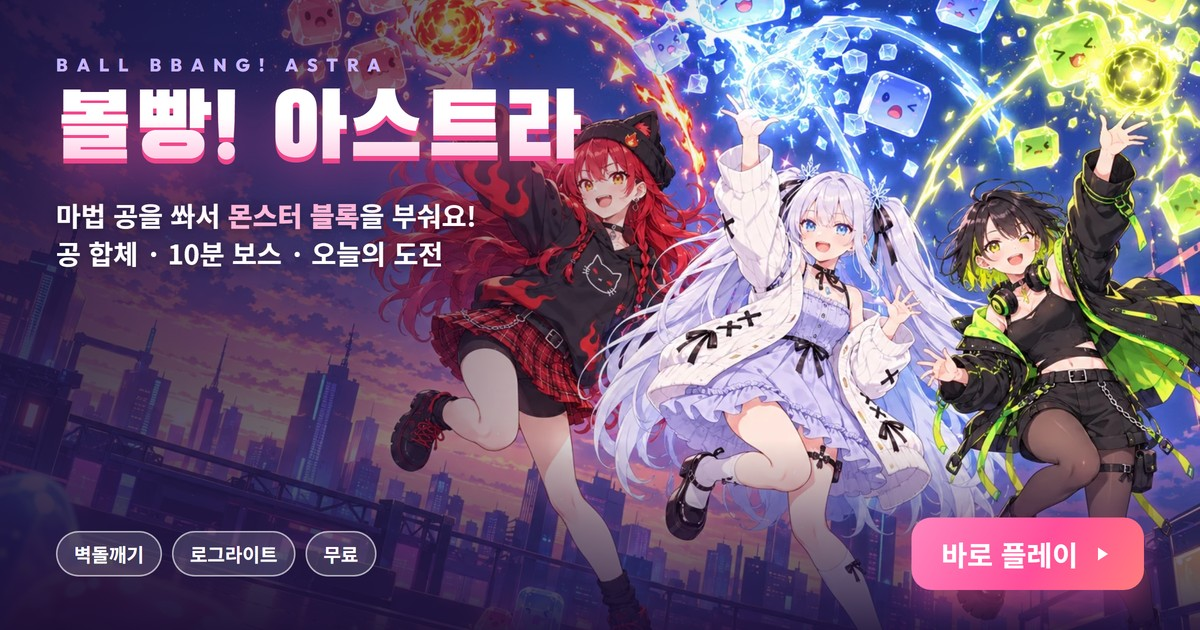
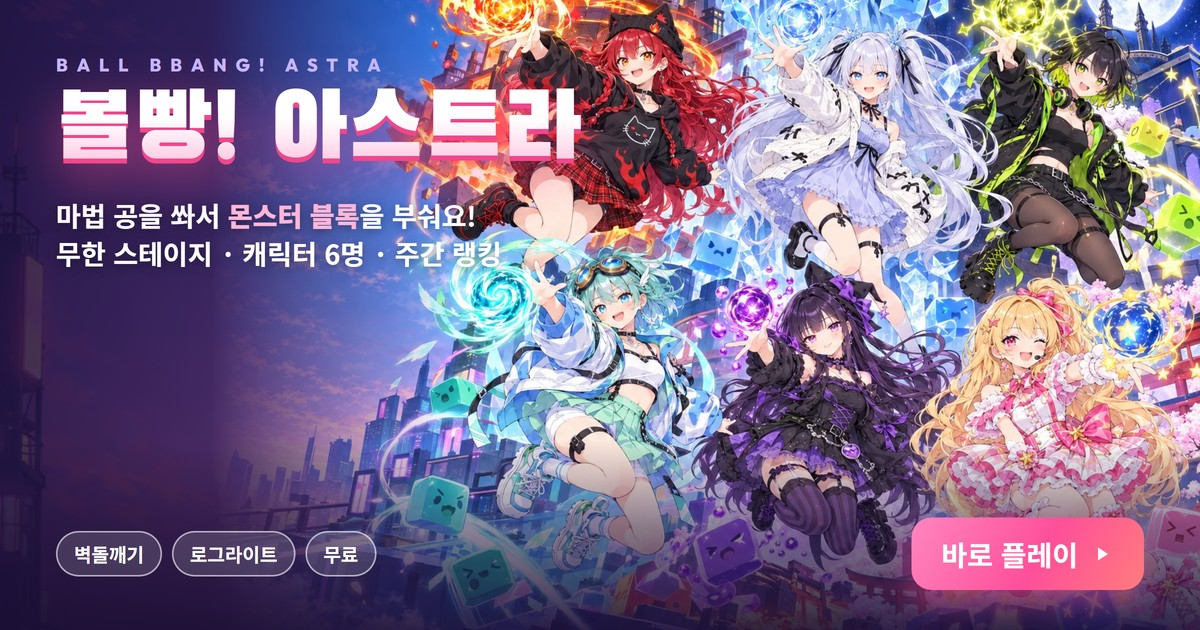
볼빵: 캐릭터 숙련도(Lv.1~10)·유카타 의상 6명·주간 랭킹·익명 판 기록 + 6명 대표 그림(첫 화면·공유 그림·홈페이지 카드)

diff --git a/ballbbang/index.html b/ballbbang/index.html
@@ -187,7 +187,17 @@ body.wide .side{display:grid;gap:12px}
 .news-list li{display:flex;gap:10px;align-items:center;padding:9px 11px;border-radius:12px;background:#F7F2FA;font:500 12.5px/1.4 var(--f-kr);color:var(--ink2)}
 .news-list li i{font-style:normal;font-size:20px;line-height:1;flex:none}
 .news-list li b{display:block;font:800 13.5px/1.3 var(--f-kr);color:var(--ink)}
+.news-list li.nw{background:linear-gradient(120deg,#FFF6D6,#FFE6F2);box-shadow:inset 0 0 0 1.5px #FFC24A}
+.news-list li.nw b::after{content:"NEW";margin-left:6px;padding:2px 6px;border-radius:999px;background:var(--pink);color:#fff;font:800 9.5px/1 var(--f-en);letter-spacing:.08em;vertical-align:2px}
 .lvup.chest .lvwrap h2{background:linear-gradient(180deg,#FFFBE0,#FFC24A);-webkit-background-clip:text;background-clip:text}
+.charc .mast{display:flex;align-items:center;gap:6px;margin-top:6px;font:800 11px/1 var(--f-kr);color:var(--pink)}
+.charc .mast i{flex:1;height:5px;border-radius:3px;background:#E8DDF0;position:relative;overflow:hidden;min-width:30px}
+.charc .mast i::after{content:"";position:absolute;inset:0 auto 0 0;width:var(--p);background:var(--pink)}
+.charc .mnext{display:block;margin-top:3px;font:500 10.5px/1.3 var(--f-kr);color:var(--ink2)}
+.charc .cos{display:inline-block;margin-top:6px;padding:5px 9px;border-radius:999px;background:linear-gradient(120deg,#FFF6D6,#FFE0F0);box-shadow:inset 0 0 0 1.5px var(--gold);font:800 11px/1 var(--f-kr);color:#4A2E00}
+.wk{display:grid;gap:4px}
+.wk div{display:flex;justify-content:space-between;gap:8px;padding:7px 10px;border-radius:10px;background:#F7F2FA;font:700 12.5px/1.2 var(--f-kr);color:var(--ink)}
+.wk div small{font:500 11px/1.2 var(--f-kr);color:var(--ink2)}
 .charc .pr.cond{font:700 10.5px/1.25 var(--f-kr);max-width:48%;text-align:right;white-space:normal}
 @keyframes sweep{0%,62%{left:-60%}100%{left:130%}}
 /* 첫 화면 */
@@ -337,6 +347,7 @@ body.wide .side{display:grid;gap:12px}
 <div class="overlay" id="ach" hidden>
   <div class="card"><span class="tag">REWARDS</span><h2 class="c-title">업적 · 도감</h2>
     <div class="ach-sec"><b>오늘의 미션</b><small id="dmInfo"></small><div id="dmList" class="mlist"></div></div>
+    <div class="ach-sec"><b>이번 주 랭킹</b><small id="wkInfo">월요일마다 새로 시작 · 1~3등은 다음 주에 '주간 ○등' 칭호</small><div id="wkList" class="wk"></div></div>
     <div class="ach-sec"><b>칭호</b><small>고른 칭호가 랭킹에 이름과 같이 나와요</small><div id="titleList" class="chips"></div></div>
     <div class="ach-sec"><b>업적 <em id="achCount"></em></b><div id="achList" class="mlist"></div></div>
     <div class="ach-sec"><b>보스 도감 <em id="dexCount"></em></b><div id="dexGrid" class="dex"></div></div>
@@ -351,11 +362,11 @@ body.wide .side{display:grid;gap:12px}
 <div class="overlay" id="news" hidden>
   <div class="card"><span class="tag">UPDATE</span><h2 class="c-title">새로워졌어요!</h2>
     <ul class="news-list">
-      <li><i>♾</i><div><b>시간제한 없는 무한 스테이지</b>스테이지 20개 · 쓰러질 때까지 계속</div></li>
-      <li><i>🚩</i><div><b>체크포인트 시작</b>최고 기록 스테이지부터 바로 시작할 수 있어요</div></li>
-      <li><i>🏆</i><div><b>업적 · 칭호 · 보스 도감 · 오늘의 미션</b>할수록 코인과 칭호가 쌓여요</div></li>
-      <li><i>🎁</i><div><b>5스테이지마다 보물 상자</b>전설 강화 하나를 골라요</div></li>
-      <li><i>💤</i><div><b>쉬는 동안 코인</b>안 하는 동안에도 친구들이 코인을 모아 와요</div></li>
+      <li class="nw"><i>🎐</i><div><b>캐릭터 숙련도 · 유카타 의상</b>한 캐릭터로 할수록 강해지고, Lv.10이면 축제 유카타를 입어요</div></li>
+      <li class="nw"><i>📅</i><div><b>주간 랭킹</b>월요일마다 새로 시작 · 1~3등은 '주간 ○등' 칭호</div></li>
+      <li class="nw"><i>🎵</i><div><b>테마마다 다른 전투 곡</b>얼음·용암·네온·벚꽃·우주 스테이지에 새 곡</div></li>
+      <li><i>♾</i><div><b>무한 스테이지 · 체크포인트 시작</b>최고 기록 스테이지부터 바로 시작할 수 있어요</div></li>
+      <li><i>🏆</i><div><b>업적 · 칭호 · 보물 상자 · 쉬는 동안 코인</b>할수록 코인과 칭호가 쌓여요</div></li>
       <li><i>👭</i><div><b>새 친구 소라 · 네네 · 미라이</b>캐릭터 화면에서 만나요</div></li>
       <li><i>💾</i><div><b>기록 옮기기 코드</b>업적 화면 맨 아래에서 백업할 수 있어요</div></li>
     </ul>
@@ -413,7 +424,7 @@ const $ = s => document.querySelector(s);
 const SHARE_URL = 'https://baed73117.github.io/ai-astra/ballbbang/';
 const TOUCH = !!(window.matchMedia && matchMedia('(pointer: coarse)').matches);
 const REDUCED = !!(window.matchMedia && matchMedia('(prefers-reduced-motion: reduce)').matches);
-const AV = '?v=1f80979b';   // 배포 때 build.py 가 '?v=그림버전' 으로 바꿈
+const AV = '?v=bacf8d9b';   // 배포 때 build.py 가 '?v=그림버전' 으로 바꿈
 const fmt = n => Math.floor(Number(n) || 0).toLocaleString('ko-KR');
 const short = n => n >= 1e6 ? (n / 1e6).toFixed(n >= 1e7 ? 0 : 1) + 'M' : n >= 1e4 ? Math.round(n / 1e3) + 'K' : n >= 1e3 ? (n / 1e3).toFixed(1) + 'K' : String(Math.ceil(n));
 const clamp = (v, a, b) => v < a ? a : v > b ? b : v;
@@ -431,7 +442,8 @@ const WIN_LINE = {ruby: '봤지? 내 불꽃이 최고야~!', yuki: '…당연한
 const GOOD_LINE = {ruby: '아깝다! 다음엔 보스까지 태워 버리자!', yuki: '꽤 잘했어. 다음엔 끝까지 가자.', riko: '거의 다 왔는데! 한 판 더?', sora: '조금만 더 날면 됐는데! 다시 가자!', nene: '음… 다음엔 더 진하게 끓여 볼게.', mirai: '앵콜 무대 한 번 더 할래?'};
 const LOSE_LINE = {ruby: '으으… 한 번만 더 하자!', yuki: '괜찮아. 다시 하면 돼.', riko: '에이~ 몸풀기였어! 다시 고고!', sora: '에헤헤, 바람이 좀 셌네. 다시!', nene: '졸려… 한 판만 더 할까.', mirai: '연습은 끝! 이제 본무대야!'};
 const byKey = k => CHARS.find(c => c.key === k) || CHARS[0];
-const PT_URL = k => `assets/pt_${k}.webp${AV}`, SD_URL = k => `assets/sd_${k}.webp${AV}`, BLINK_URL = k => `assets/sd_${k}_blink.webp${AV}`;
+const skin = k => save && save.cos && save.cos[k] && mastLv(k) >= 10 ? '_' + save.cos[k] : '';   // 숙련도 Lv.10 의상 (지금은 c1 = 축제 유카타)
+const PT_URL = k => `assets/pt_${k}${skin(k)}.webp${AV}`, SD_URL = k => `assets/sd_${k}${skin(k)}.webp${AV}`, BLINK_URL = k => `assets/sd_${k}${skin(k)}_blink.webp${AV}`;
 // 공 15종 (balls.webp 5×3 칸 번호 = i). dmg = 기본 피해, owner = 콜라보 합체 연출에 나오는 캐릭터
 const BALLS = {
   basic: {i: 0, name: '기본 공', dmg: 10, color: 0xFFE3F1, desc: '단단하고 믿음직한 기본 공'},
@@ -599,7 +611,13 @@ const MISSIONS = [
   {id: 'chest', text: () => '보물 상자 1개 열기', n: [1], coin: 150}, {id: 'plays', text: n => `${n}판 하기`, n: [2, 3], coin: 100},
   {id: 'level', text: n => `한 판에 레벨 ${n} 달성`, n: [25, 35], coin: 120}, {id: 'daily', text: () => '오늘의 도전 1판', n: [1], coin: 100},
 ];
-const SCORE_CAP = 99990000;                  // 랭킹 시트 상한(1억) 안쪽 · 무한 스테이지라 사실상 제한 없음
+const SCORE_CAP = 99990000;
+// 캐릭터 숙련도: 판이 끝나면 그 캐릭터에 경험치(간 스테이지·부순 블록·잡은 보스) → Lv.1~10, 단계마다 작은 보너스, Lv.10 = 유카타 의상 + '○○ 마스터' 칭호 (오늘의 도전엔 보너스 없음)
+const MAST_XP = [0, 60, 150, 280, 450, 670, 950, 1300, 1720, 2220];
+const MAST_TXT = ['', '', '공격력 +3%', '시작 기본 공 +1', '최대 체력 +10', '공격력 +3%', '특기 쿨타임 -6%', '시작 기본 공 +1', '특기 위력 +10%', '공격력 +4% · 체력 +10', '유카타 의상 · 마스터 칭호'];
+const mastXp = k => (save.mast && save.mast[k]) || 0;
+const mastLv = k => { const x = mastXp(k); let l = 1; while (l < 10 && x >= MAST_XP[l]) l++; return l; };
+function mastBonus(k) { const l = mastLv(k); return {atk: (l >= 2 ? .03 : 0) + (l >= 5 ? .03 : 0) + (l >= 9 ? .04 : 0), balls: (l >= 3 ? 1 : 0) + (l >= 7 ? 1 : 0), hp: (l >= 4 ? 10 : 0) + (l >= 9 ? 10 : 0), cd: l >= 6 ? .94 : 1, pow: l >= 8 ? 1.1 : 1}; }                  // 랭킹 시트 상한(1억) 안쪽 · 무한 스테이지라 사실상 제한 없음
 
 /* ---------- 저장 (새 키: astra-universe-breaker-v1) ---------- */
 const SAVE_KEY = 'astra-universe-breaker-v1', RUN_KEY = 'astra-universe-breaker-run';
@@ -618,7 +636,10 @@ function loadSave() {
   const ach = Array.isArray(s.ach) ? s.ach.filter(id => ACH.some(a => a.id === id)) : [];
   const d0 = s.dm && typeof s.dm === 'object' ? s.dm : {}, dm = {d: String(d0.d || ''), p: {}, done: Array.isArray(d0.done) ? d0.done.map(String) : [], streak: n(d0.streak), last: String(d0.last || ''), best: n(d0.best)};
   MISSIONS.forEach(m => { dm.p[m.id] = n(d0.p && d0.p[m.id]); });
-  return {best: n(s.best), clears: n(s.clears), coins: Math.min(9999999, n(s.coins)), plays: n(s.plays), owned, sel: owned.includes(s.sel) ? s.sel : 'ruby', shop, top, st: n(s.st), idleT: n(s.idleT), news: String(s.news || ''), rec, dex: n(s.dex) & 0xFFFFFFF, ach, title: ach.includes(s.title) ? s.title : '', dm,
+  const mast = {}, cos = {};
+  if (s.mast && typeof s.mast === 'object') for (const k of Object.keys(s.mast)) if (CHARS.some(c => c.key === k)) mast[k] = n(s.mast[k]);
+  if (s.cos && typeof s.cos === 'object') for (const k of Object.keys(s.cos)) if (CHARS.some(c => c.key === k) && s.cos[k] === 'c1') cos[k] = 'c1';
+  return {best: n(s.best), clears: n(s.clears), coins: Math.min(9999999, n(s.coins)), plays: n(s.plays), owned, sel: owned.includes(s.sel) ? s.sel : 'ruby', shop, top, st: n(s.st), idleT: n(s.idleT), news: String(s.news || ''), rec, dex: n(s.dex) & 0xFFFFFFF, ach, title: ach.includes(s.title) || /^(m:[a-z]+|w:[123])$/.test(String(s.title || '')) ? String(s.title) : '', dm, mast, cos, wbest: n(s.wbest), wseen: String(s.wseen || ''),
     muted: s.muted === true, auto: s.auto !== false, daily: s.daily && typeof s.daily === 'object' ? {d: String(s.daily.d || ''), best: n(s.daily.best)} : {d: '', best: 0}};
 }
 const save = loadSave();
@@ -1098,13 +1119,14 @@ function newRun(opts) {
   const daily = !!opts.daily, seed = daily ? opts.seed : (Math.random() * 4294967296) >>> 0;
   const ch = byKey(opts.char);
   const shop = daily ? {atk: 0, hp: 0, start: 0, xp: 0, reroll: 0} : save.shop;
+  const mb = daily ? {atk: 0, balls: 0, hp: 0, cd: 1, pow: 1} : mastBonus(ch.key);   // 숙련도 보너스 (오늘의 도전은 공정하게 없음)
   return {
     started: false, daily, seed, dateNum: opts.dateNum || 0, char: ch.key, stage: 1, startStage: 1, prevTop: save.top, stT: 0, stPh: 0,   // stT = 스테이지 시계 · stPh = 0 시작 · 1 중간 보스 나옴 · 2 스테이지 보스 나옴
     wr: rng(seed), cr: rng(seed ^ 0x9E3779B9),          // 블록용 · 선택지용 (고른 것이 블록 배치를 바꾸지 않게)
     t: 0, scroll: 0, nextK: 0, score: 0, kills: 0, level: 1, xp: 0, xpNeed: xpNeedFor(1),
-    hp: 100 + shop.hp * 10, hpMax: 100 + shop.hp * 10, atkMeta: 1 + shop.atk * .08, xpMeta: 1 + shop.xp * .06,
-    rerolls: 1 + shop.reroll, kinds: {[ch.ball]: 1, basic: 1}, extraBasic: 3 + shop.start, fusions: [],
-    upg: {}, skillT: 0, skillCd: 22, frozenT: 0, shieldT: 0, boss: null, won: false, ended: false,
+    hp: 100 + shop.hp * 10 + mb.hp, hpMax: 100 + shop.hp * 10 + mb.hp, atkMeta: (1 + shop.atk * .08) * (1 + mb.atk), xpMeta: 1 + shop.xp * .06,
+    rerolls: 1 + shop.reroll, kinds: {[ch.ball]: 1, basic: 1}, extraBasic: 3 + shop.start + mb.balls, fusions: [], mPow: mb.pow,
+    upg: {}, skillT: 0, skillCd: 22 * mb.cd, frozenT: 0, shieldT: 0, boss: null, won: false, ended: false,
     hitCount: 0, pendingLv: 0, minK: 0, bossN: 0, maxCombo: 0, chestN: 0, dexRun: 0, leg: {}, pendingChest: 0, revived: false, starT: 0,
   };
 }
@@ -1935,7 +1957,7 @@ function cutIn(small, text, a, b, c1, c2) {
 /* ---------- 특기 ---------- */
 let skillPoseT = 0;
 const skillCdNow = () => run.skillCd * Math.pow(.88, U('skillcd')) * (LG('charge') ? .6 : 1);
-const skillPow = () => (1 + .3 * U('skillpow')) * atkMul() * (1 + run.level * .06);
+const skillPow = () => (1 + .3 * U('skillpow')) * atkMul() * (1 + run.level * .06) * (run.mPow || 1);
 function later(sec, fn) { (run.skillQ || (run.skillQ = [])).push({t: run.t + sec, fn}); }   // 게임 시간으로 잠시 뒤에 (차례대로 넣음)
 function useSkill() {
   if (state !== 'play' || paused || !run || run.skillT < skillCdNow()) return;
@@ -2093,7 +2115,7 @@ function snapshot() {
   if (!run || run.ended || !run.started) return null;
   const bl = [...blocks].filter(b => !b.dead && !b.boss).map(b => [b.k, b.c, b.w, b.h, Math.round(b.hp), Math.round(b.maxHp), b.type]);
   const bo = run.boss && !run.boss.dead ? [run.boss.k, run.boss.c, run.boss.w, run.boss.h, Math.round(run.boss.hp), Math.round(run.boss.maxHp), run.boss.boss.tex, run.boss.boss.final ? 1 : 0, run.boss.boss.name] : null;
-  const keep = ['daily', 'seed', 'dateNum', 'char', 'stage', 't', 'scroll', 'nextK', 'score', 'kills', 'level', 'xp', 'xpNeed', 'hp', 'hpMax', 'atkMeta', 'xpMeta', 'rerolls', 'kinds', 'extraBasic', 'fusions', 'upg', 'skillT', 'skillCd', 'stT', 'stPh', 'hitCount', 'coinBonus', 'dmgTotal', 'bossN', 'maxCombo', 'chestN', 'dexRun', 'leg', 'pendingChest', 'revived', 'startStage', 'prevTop'];
+  const keep = ['daily', 'seed', 'dateNum', 'char', 'stage', 't', 'scroll', 'nextK', 'score', 'kills', 'level', 'xp', 'xpNeed', 'hp', 'hpMax', 'atkMeta', 'xpMeta', 'rerolls', 'kinds', 'extraBasic', 'fusions', 'upg', 'skillT', 'skillCd', 'stT', 'stPh', 'hitCount', 'coinBonus', 'dmgTotal', 'bossN', 'maxCombo', 'chestN', 'dexRun', 'leg', 'pendingChest', 'revived', 'startStage', 'prevTop', 'mPow'];
   const o = {}; keep.forEach(k => { o[k] = run[k]; });
   o.wr = run.wr.get(); o.cr = run.cr.get(); o.bl = bl; o.bo = bo; o.WH = WH; o.at = Date.now();
   o.it = items.map(it => [it.type, it.k, it.c, it.uses]);
@@ -2214,12 +2236,18 @@ function endRun(won) {
   run.rewards = applyRewards(run);
   if (run.daily) { if (save.daily.d !== String(run.dateNum)) save.daily = {d: String(run.dateNum), best: 0}; save.daily.best = Math.max(save.daily.best, finalScore); }
   persist();
+  sendStat(run);
   const r = run;
   setTimeout(() => { if (run === r) showResult(won); }, won ? 1800 : 900);
 }
 // 판이 끝나면: 기록 쌓기 → 오늘의 미션 → 업적 → 조건 캐릭터 합류. 받은 보상 글 목록을 돌려줌 (결과 화면에 표시)
 function applyRewards(r) {
   const out = [], R = save.rec;
+  // 숙련도: 간 스테이지 수 ×10 + 블록 100개당 1 + 보스 1마리당 2
+  const mg = Math.round(10 * Math.max(1, r.stage - (r.startStage || 1) + 1) + (r.kills || 0) / 100 + 2 * (r.bossN || 0)), lv0 = mastLv(r.char);
+  save.mast[r.char] = mastXp(r.char) + mg;
+  const lv1 = mastLv(r.char);
+  out.push(`${byKey(r.char).name} 숙련도 +${mg}` + (lv1 > lv0 ? ` · Lv.${lv1}! ${MAST_TXT[lv1]}` : ''));
   R.kills += r.kills || 0; R.bosses += r.bossN || 0; R.combo = Math.max(R.combo, r.maxCombo || 0); R.chests += r.chestN || 0; if (r.daily) R.dailies++;
   if ((r.startStage || 1) === 1 || r.stage > r.startStage) R.cbest[r.char] = Math.max(R.cbest[r.char] || 0, r.stage);
   save.dex = (save.dex | (r.dexRun || 0)) & 0xFFFFFFF;
@@ -2258,7 +2286,7 @@ function idleReward() {
   setTimeout(() => toast(`쉬는 동안 캐릭터들이 코인 ${fmt(got)}개를 모아 왔어요! (시간당 ${rate}개)`), 600);
 }
 // 기록 옮기기 코드: 'BB1-확인값-내용' (내용 = 저장 JSON을 base64로). 확인값이 안 맞으면 거절
-const NEWS_V = '20261009';
+const NEWS_V = '20261009b';   // 바꾸면 모두에게 안내 창이 한 번 더 뜸
 function codeSum(t) { let h = 2166136261; for (let i = 0; i < t.length; i++) { h ^= t.charCodeAt(i); h = Math.imul(h, 16777619); } return (h >>> 0).toString(36); }
 function exportCode() { const b = btoa(unescape(encodeURIComponent(JSON.stringify(save)))); return 'BB1-' + codeSum('astra-bb' + b) + '-' + b; }
 function importCode(code) {
@@ -2270,7 +2298,39 @@ function importCode(code) {
   Object.assign(save, loadSave()); save.news = NEWS_V; persist(); clearRunSave(); stView = -1;
   return true;
 }
-const titleText = () => { const a = ACH.find(x => x.id === save.title); return a ? a.title : ''; };
+const titleText = () => {
+  const t = save.title || '';
+  if (t.startsWith('m:')) { const k = t.slice(2); return mastLv(k) >= 10 ? byKey(k).name + ' 마스터' : ''; }
+  if (t.startsWith('w:')) return save.wbest && save.wbest <= +t.slice(2) ? `주간 ${t.slice(2)}등` : '';
+  const a = ACH.find(x => x.id === t); return a ? a.title : '';
+};
+// 주간 랭킹: 'bbw' + 이번 주 월요일(한국 시간). 시트는 이번 주·지난주 것만 받음. 지난주 1~3등(같은 닉네임)은 '주간 ○등' 칭호
+function weekKey(off) { const d = new Date(Date.now() + 9 * 3600e3), dow = (d.getUTCDay() + 6) % 7, m = new Date(Date.UTC(d.getUTCFullYear(), d.getUTCMonth(), d.getUTCDate() - dow - 7 * (off || 0))); return 'bbw' + (m.getUTCFullYear() * 1e4 + (m.getUTCMonth() + 1) * 100 + m.getUTCDate()); }
+let wkBusy = false;
+function sendWeekly(score, info, delay) {
+  const g = weekKey(), nm = RankNet.name;
+  if (!RankNet.on || !nm || !rankTop || !Object.prototype.hasOwnProperty.call(rankTop, g) || !(score > RankNet.sent(g))) return;
+  setTimeout(() => {   // 결과 화면·랭킹 올리기 두 곳에서 불려도 한 번만 (보내기 직전에 다시 확인)
+    if (wkBusy || !(score > RankNet.sent(g))) return;
+    wkBusy = true;
+    RankNet.send(g, RankNet.name || nm, score, info).then(j => { if (j && j.ok && j.top) rankTop = j.top; }).catch(() => {}).then(() => { wkBusy = false; });
+  }, delay);
+}
+function weeklyCheck() {
+  const g = weekKey(1), list = rankTop && rankTop[g], nm = RankNet.name;
+  if (!list || !nm || save.wseen === g) return;
+  const i = list.slice(0, 3).findIndex(x => x.name === nm);
+  save.wseen = g;
+  if (i >= 0) { save.wbest = Math.min(save.wbest || 9, i + 1); toast(`지난주 주간 랭킹 ${i + 1}등! '주간 ${i + 1}등' 칭호를 받았어요`); }
+  persist();
+}
+// 익명 판 기록 (이름 없이 스테이지·캐릭터·시간·레벨만) → 시트 '볼빵기록' 탭: 실제 사람 기준으로 난이도를 맞추는 데 씀
+function sendStat(r) {
+  if (!RankNet.on) return;
+  const body = {kind: 'stat', id: RankNet.id(), stage: r.stage, start: r.startStage || 1, char: r.char, sec: Math.floor(played()), lv: r.level,
+    shop: Object.values(save.shop).reduce((a, b) => a + b, 0), m: mastLv(r.char), daily: r.daily ? 1 : 0, score: r.final || 0};
+  setTimeout(() => RankNet.req({method: 'POST', body: JSON.stringify(body)}).catch(() => {}), 2500);
+}
 function restoreVolume() { if (S.music) S.music.gain.value = .32; if (S.bgm) S.bgm.gain.value = BGM_VOL; }
 function showResult(won) {
   state = 'over'; paused = false; overT = 0;
@@ -2290,6 +2350,7 @@ function showResult(won) {
   // 랭킹 (시트가 이 게임을 받을 준비가 됐을 때만)
   const ch = byKey(run.char), info = `${run.daily ? '도전 ' + String(run.dateNum).slice(4) + ' · ' : ''}${titleText() ? titleText() + ' · ' : ''}${ch.name} · ${run.startStage > 1 ? 'S' + run.startStage + '→' : '스테이지 '}${run.stage}`;
   const game = run.daily ? 'bbd' + run.dateNum : 'ballbbang';    // 오늘의 도전은 날짜별 랭킹
+  if (!run.daily) sendWeekly(finalScore, info, 6500);   // 주간 랭킹 (전체 랭킹 올린 뒤 몇 초 있다가 — 시트가 한 기기에서 5초에 한 번만 받음)
   if (rankSupported) RankUI.show(game, finalScore, info); else { $('#rankBox').hidden = true; if (RankNet.on) checkRank().then(ok => { if (ok && state === 'over') RankUI.show(game, finalScore, info); }); }
   $('#result').hidden = false; lockEl($('#result .card'), 500);
   const r = run; setTimeout(() => { if (state === 'over' && run === r) BGM.play('title', 1.2); }, 1600);
@@ -2371,8 +2432,13 @@ function openAch() {
   const P = save.dm.p, ml = $('#dmList'); ml.innerHTML = '';
   $('#dmInfo').textContent = `매일 바뀌어요 · 3개 다 하면 보너스 코인 (최고 연속 ${save.dm.best}일)`;
   todayMissions().forEach(m => ml.appendChild(mrow(m.text, `${fmt(Math.min(P[m.id], m.n))} / ${fmt(m.n)}`, P[m.id] / m.n, `+${m.coin}`, save.dm.done.includes(m.id))));
+  const wl = $('#wkList'), wk = rankTop && rankTop[weekKey()]; wl.innerHTML = '';
+  if (wk && wk.length) wk.slice(0, 3).forEach((x, i) => { const d = document.createElement('div'); d.innerHTML = '<span></span><small></small>'; d.firstChild.textContent = `${['🥇', '🥈', '🥉'][i]} ${x.name}`; d.lastChild.textContent = fmt(x.score); wl.appendChild(d); });
+  else { const d = document.createElement('div'); d.innerHTML = '<small></small>'; d.firstChild.textContent = rankTop ? '이번 주 기록이 아직 없어요 · 첫 1등에 도전!' : '랭킹을 불러오는 중이거나 연결이 안 돼요'; wl.appendChild(d); }
   const tl = $('#titleList'); tl.innerHTML = '';
   tl.appendChild(chip('칭호 없음', !save.title, false, () => { save.title = ''; persist(); openAch(); }));
+  CHARS.filter(c => mastLv(c.key) >= 10).forEach(c => tl.appendChild(chip(c.name + ' 마스터', save.title === 'm:' + c.key, false, () => { save.title = 'm:' + c.key; persist(); openAch(); })));
+  [1, 2, 3].filter(n => save.wbest && save.wbest <= n).slice(0, 1).forEach(n => tl.appendChild(chip(`주간 ${n}등`, save.title === 'w:' + n, false, () => { save.title = 'w:' + n; persist(); openAch(); })));
   ACH.filter(a => a.title).forEach(a => { const got = save.ach.includes(a.id); tl.appendChild(chip(a.title, save.title === a.id, !got, () => { if (!got) { toast(`「${a.name}」 업적을 달성하면 열려요`); return; } save.title = a.id; persist(); openAch(); })); });
   $('#achCount').textContent = `${save.ach.length} / ${ACH.length}`;
   const al = $('#achList'); al.innerHTML = '';
@@ -2395,6 +2461,17 @@ function openChars() {
     b.innerHTML = `<div class="ph" style="background-image:url(${PT_URL(c.key)})"></div><div style="flex:1;min-width:0"><span class="en"></span><h4></h4><p></p><div class="kit"><i style="background-image:url(assets/balls.webp${AV});background-position:${(bd.i % 5) * 25}% ${Math.floor(bd.i / 5) * 50}%"></i><span></span></div></div>${own ? '' : c.unlock ? `<span class="pr cond">🔒 ${c.unlock.text}</span>` : `<span class="pr">🔒 ${fmt(c.price)}</span>`}`;
     b.querySelector('.en').textContent = c.en; b.querySelector('h4').textContent = c.name; b.querySelector('p').textContent = c.desc;
     b.querySelector('.kit span').textContent = `${bd.name}으로 시작 · 「${c.skill}」`;
+    if (own) {   // 숙련도 · 의상
+      const l = mastLv(c.key), x = mastXp(c.key), pct = l >= 10 ? 100 : Math.round((x - MAST_XP[l - 1]) / (MAST_XP[l] - MAST_XP[l - 1]) * 100);
+      const mw = document.createElement('div'); mw.innerHTML = `<div class="mast"><span>숙련도 Lv.${l}</span><i style="--p:${pct}%"></i></div><span class="mnext"></span>`;
+      mw.querySelector('.mnext').textContent = l >= 10 ? '최고 단계! 유카타 의상을 입을 수 있어요' : `다음 Lv.${l + 1}: ${MAST_TXT[l + 1]} (${fmt(x)} / ${fmt(MAST_XP[l])})` + (l < 9 ? ' · Lv.10엔 🎐유카타' : '');
+      if (l >= 10) {
+        const cb = document.createElement('span'); cb.className = 'cos'; cb.setAttribute('role', 'button'); cb.textContent = save.cos[c.key] ? '기본 옷으로 갈아입기' : '🎐 유카타 입기';
+        cb.addEventListener('click', ev => { ev.stopPropagation(); if (save.cos[c.key]) delete save.cos[c.key]; else save.cos[c.key] = 'c1'; persist(); openChars(); renderTitle(); });
+        mw.appendChild(cb);
+      }
+      b.querySelector('.kit').after(mw);
+    }
     b.addEventListener('click', () => {
       if (own) { save.sel = c.key; persist(); openChars(); return; }
       if (c.unlock) {
@@ -2473,6 +2550,7 @@ const RankUI = {
     let text;
     try {
       const r = await RankNet.send(this.game, name, this.score, this.info);
+      if (r && r.ok && this.game === 'ballbbang') sendWeekly(this.score, this.info, 6000);
       if (r && r.ok) { if (run !== this.run) return; msg.textContent = r.rank <= 3 ? `전체 ${r.rank}등! 홈페이지에 이름이 올라가요` : `전체 ${r.rank}등이에요 · 내 최고 ${Number(r.best).toLocaleString('ko-KR')}`; btn.textContent = '올렸어요'; return; }
       const retry = r && (r.why === 'slow' || r.why === 'busy' || r.why === 'error');
       if (retry && auto === true && run === this.run) { msg.textContent = '잠시 후 자동으로 다시 올려요…'; btn.disabled = false; btn.textContent = '랭킹 올리기'; setTimeout(() => { if (run === this.run) this.up('retry'); }, 5500); return; }
@@ -2486,7 +2564,7 @@ let rankSupported = false, rankTop = null;
 function checkRank() {
   return RankNet.top().then(j => {
     rankSupported = !!(j && j.ok && j.top && Object.prototype.hasOwnProperty.call(j.top, 'ballbbang'));
-    if (rankSupported) { rankTop = j.top; if (state === 'title') renderTitle(); }
+    if (rankSupported) { rankTop = j.top; weeklyCheck(); if (state === 'title') renderTitle(); }
     return rankSupported;
   }).catch(() => false);
 }

diff --git a/index.html b/index.html
@@ -203,12 +203,12 @@ a:focus-visible,button:focus-visible{outline:2px solid var(--cyan);outline-offse
       <div class="games">
         <a class="game g6 wide reveal" href="ballbbang/" data-tilt>
           <span class="badge">NEW</span>
-          <div class="art"><img src="ballbbang/assets/key.webp" alt="볼빵! 아스트라 게임 이미지 (캐릭터 3명)" width="1200" height="800" loading="lazy" decoding="async" style="object-position:55% 35%"></div>
+          <div class="art"><img src="ballbbang/assets/key.webp" alt="볼빵! 아스트라 게임 이미지 (캐릭터 6명)" width="1200" height="800" loading="lazy" decoding="async" style="object-position:55% 35%"></div>
           <div class="body">
             <span class="genre">Brick Breaker</span>
             <h3>볼빵! 아스트라</h3>
-            <p>애니 소녀들이 마법 공을 쏴서 내려오는 몬스터 블록을 부수는 벽돌깨기. 레벨업마다 공을 고르고 합체해서 보스를 잡고, 시간제한 없이 몇 스테이지까지 갈 수 있나 도전!</p>
-            <div class="meta"><span>벽돌깨기 로그라이트</span><span>무한 스테이지</span><span>오늘의 도전</span><span>폰·PC</span></div>
+            <p>애니 소녀 6명이 마법 공을 쏴서 내려오는 몬스터 블록을 부수는 벽돌깨기. 레벨업마다 공을 고르고 합체해서 보스를 잡고, 시간제한 없이 몇 스테이지까지 갈 수 있나 도전! 한 캐릭터를 키우면 유카타 의상까지.</p>
+            <div class="meta"><span>무한 스테이지</span><span>캐릭터 6명</span><span>주간 랭킹</span><span>오늘의 도전</span><span>폰·PC</span></div>
             <ol class="podium" data-game="ballbbang" data-wait aria-label="볼빵! 아스트라 랭킹 1·2·3등" hidden></ol>
             <div class="play"><b>PLAY</b><i><svg viewBox="0 0 24 24" aria-hidden="true"><path d="M8 5v14l11-7z" fill="currentColor"/></svg></i></div>
           </div>
